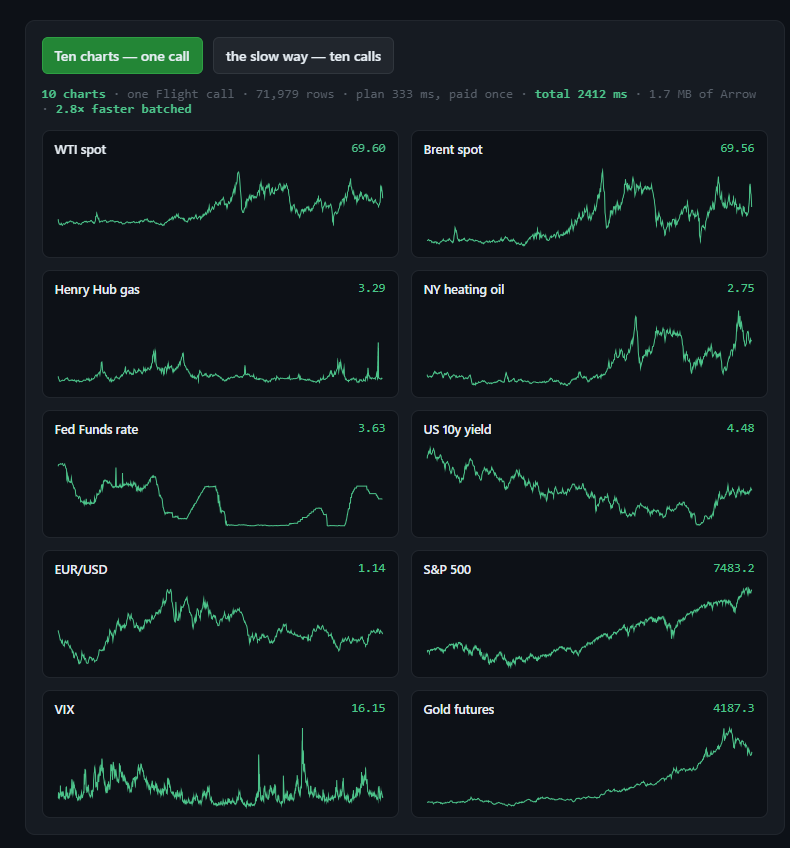
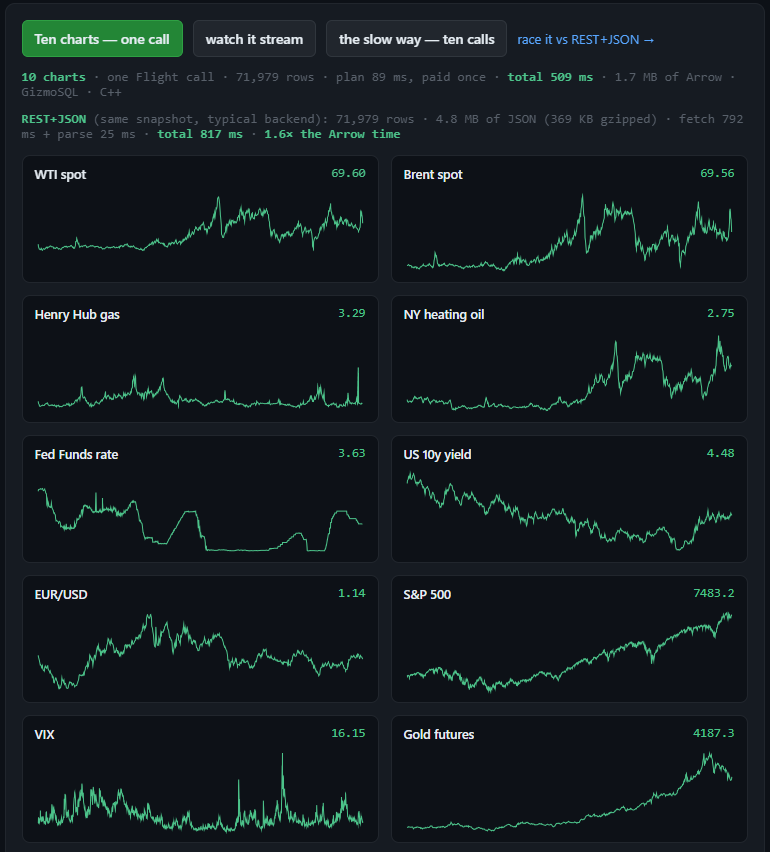
README: fresh demo screenshot — GizmoSQL times with the REST+JSON race lines in frame, caption updated

diff --git a/README.md b/README.md
@@ -12,8 +12,9 @@ Apache Arrow Flight and Flight SQL over gRPC-web. Works with any Flight server.
 
 *This screenshot is [the live demo](https://sparrowflight.io/demo/js): your browser
 opens a Flight SQL connection to a 136-million-row production server — ten
-full-history series in one call, 71,979 rows in about a second. No REST gateway,
-no JSON backend.*
+full-history series in one call, 71,979 rows in half a second. The second timing line
+is the REST+JSON control group, racing on the same page: 1.6× slower, 4.8 MB of JSON
+against 1.7 MB of Arrow.*
 
 ## Why
 